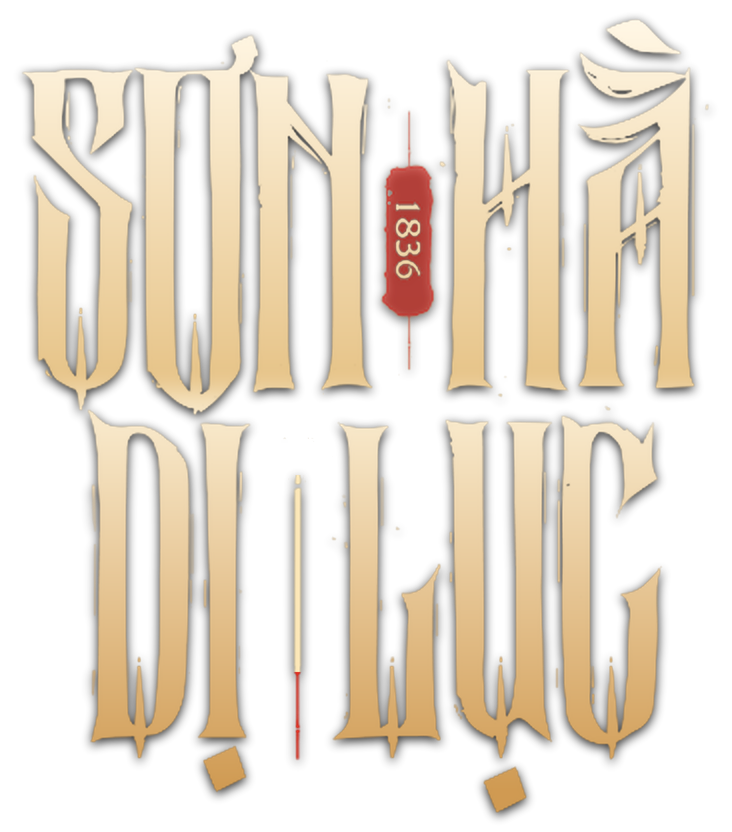
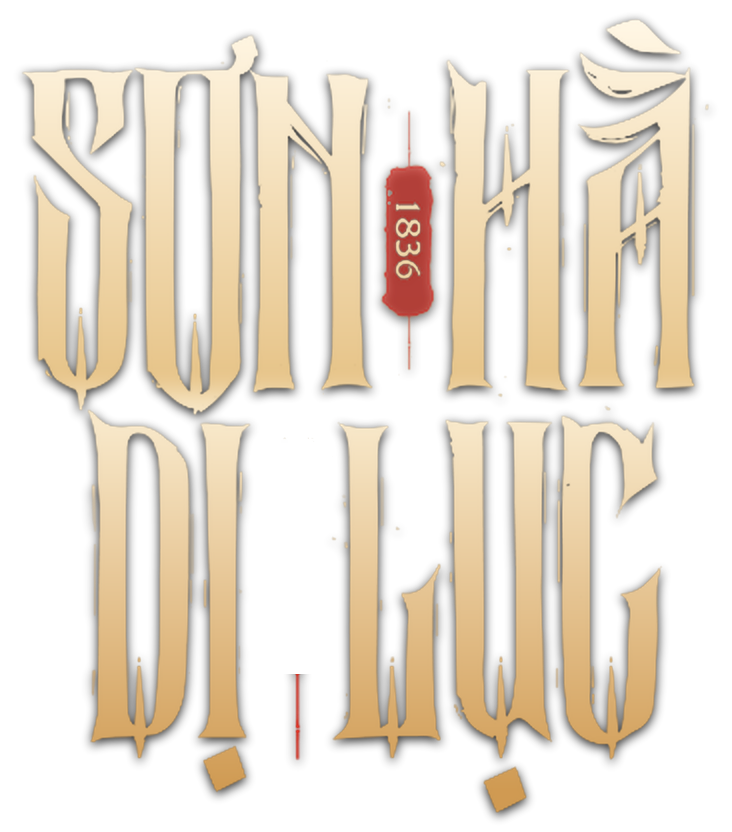
feat(hero): animate incense burning down and dimming over time, reset length & brightness on click

Changed region(s): [[0.3907, 0.5625, 0.4208, 0.8125]]

diff --git a/index.html b/index.html
@@ -7,12 +7,12 @@
   <title>Gosu Cinema | Sơn Hà Dị Lục · 1836 — Linh Dị Cổ Trang Việt Nam</title>
   <link rel="preload" href="assets/uploads/1793703338122-1FTV-VIP-Queen-of-Silence.ttf" as="font" type="font/ttf" crossorigin>
   <link rel="preload" href="assets/uploads/1793704176731-CORMORANTGARAMOND-REGULAR.TTF" as="font" type="font/ttf" crossorigin>
-  <link rel="preload" href="assets/son-ha-di-luc-title.webp?v=14" as="image" type="image/webp">
+  <link rel="preload" href="assets/son-ha-di-luc-title.webp?v=15" as="image" type="image/webp">
   <link rel="preconnect" href="https://fonts.googleapis.com">
   <link rel="preconnect" href="https://fonts.gstatic.com" crossorigin>
   <link href="https://fonts.googleapis.com/css2?family=Be+Vietnam+Pro:ital,wght@0,400;0,500;0,600;0,700;1,400&family=Cormorant+Garamond:ital,wght@0,400;0,500;0,600;0,700;1,400;1,600&family=Cormorant+SC:wght@500;600;700&family=Prata&family=Spectral:ital,wght@0,300;0,400;0,500;0,600;0,700;1,400&display=swap" rel="stylesheet">
-  <link rel="stylesheet" href="style.css?v=13">
-  <link rel="stylesheet" href="visual-editor.css?v=13">
+  <link rel="stylesheet" href="style.css?v=15">
+  <link rel="stylesheet" href="visual-editor.css?v=15">
   <script>
     (function() {
       try {
@@ -111,10 +111,15 @@
         <h1 id="hero-main-title">
           <span class="sr-only">SƠN HÀ</span>
           <div class="hero-title-art-wrap">
-            <div class="hero-title-lit-aura" aria-hidden="true"></div>
-            <img class="hero-title-art" src="assets/son-ha-di-luc-title.webp?v=14" alt="Sơn Hà Dị Lục 1836" width="366" height="416" decoding="async" fetchpriority="high">
+            <div class="hero-title-lit-aura" id="hero-title-lit-aura" aria-hidden="true"></div>
+            <img class="hero-title-art" src="assets/son-ha-di-luc-title.webp?v=15" alt="Sơn Hà Dị Lục 1836" width="366" height="416" decoding="async" fetchpriority="high">
             <svg class="hero-incense-fx-svg" viewBox="0 0 366 416" fill="none" aria-hidden="true">
               <defs>
+                <linearGradient id="inc-stick-grad" gradientUnits="userSpaceOnUse" x1="148.5" y1="237" x2="148.5" y2="338">
+                  <stop offset="0%" stop-color="#fff8e8"/>
+                  <stop offset="60%" stop-color="#f2dab0"/>
+                  <stop offset="100%" stop-color="#d8af6c"/>
+                </linearGradient>
                 <radialGradient id="inc-ember-glow" cx="50%" cy="50%" r="50%">
                   <stop offset="0%" stop-color="#fffbe6" stop-opacity="1"/>
                   <stop offset="22%" stop-color="#ff7a33" stop-opacity="0.88"/>
@@ -138,37 +143,46 @@
                 </linearGradient>
               </defs>
 
-              <!-- Vòng tròn chấm 360 độ sắc nét quanh đầu nhang -->
-              <circle class="incense-dotted-ring" cx="148.5" cy="240.5" r="18.5" stroke="#dfc08a" stroke-width="1.05" stroke-dasharray="1.3 3.6" stroke-linecap="round"/>
+              <!-- Thân nhang màu ngà cháy ngắn dần theo thời gian, bấm thắp hương sẽ dài và sáng lại -->
+              <line id="incense-stick-body" x1="148.5" y1="237.5" x2="148.5" y2="337.5" stroke="url(#inc-stick-grad)" stroke-width="2.55" stroke-linecap="butt"/>
 
-              <!-- Đốm tàn hương khi chưa thắp -->
-              <g class="incense-unlit-invite">
-                <circle class="unlit-tip-dot" cx="148.5" cy="237.5" r="2.3" fill="#e85838"/>
-              </g>
+              <!-- Cụm đầu nhang di chuyển xuống theo mức độ cháy của nén hương -->
+              <g id="incense-burning-head" transform="translate(0, 0)">
+                <!-- Đầu tàn tro nhang -->
+                <line id="incense-ash-tip" x1="148.5" y1="235.8" x2="148.5" y2="238.5" stroke="#857567" stroke-width="2.6" stroke-linecap="round"/>
 
-              <!-- Tầng khói nhang uốn lượn (gradientUnits="userSpaceOnUse" không bao giờ bị cắt viền) -->
-              <g class="incense-smoke-layer">
-                <g class="smoke-unit su-1">
-                  <path d="M 148.5 235 C 136 216, 161 194, 144 168 C 131 146, 159 120, 146 88" stroke="url(#inc-smoke-callig)" stroke-width="5.5" stroke-opacity="0.22" stroke-linecap="round" fill="none"/>
-                  <path d="M 148.5 235 C 139 221, 158 207, 145 191 C 134 176, 157 158, 146 138 C 138 122, 154 104, 147 84" stroke="url(#inc-smoke-callig)" stroke-width="1.65" stroke-linecap="round" fill="none"/>
-                  <circle cx="144" cy="208" r="1.25" fill="#ffd27d" fill-opacity="0.85"/>
-                </g>
-                <g class="smoke-unit su-2">
-                  <path d="M 148.5 235 C 160 214, 136 190, 153 162 C 165 138, 138 112, 151 82" stroke="url(#inc-smoke-crimson)" stroke-width="4.6" stroke-opacity="0.2" stroke-linecap="round" fill="none"/>
-                  <path d="M 148.5 235 C 157 220, 138 204, 152 186 C 162 170, 140 152, 151 132 C 159 116, 143 98, 150 80" stroke="url(#inc-smoke-crimson)" stroke-width="1.35" stroke-linecap="round" fill="none"/>
-                  <circle cx="153" cy="192" r="1.1" fill="#ff6b35" fill-opacity="0.85"/>
-                </g>
-                <g class="smoke-unit su-3">
-                  <path d="M 148.5 233 C 142 216, 154 198, 143 178 C 135 162, 151 144, 145 122" stroke="url(#inc-smoke-callig)" stroke-width="1.2" stroke-linecap="round" fill="none"/>
-                  <circle cx="145" cy="172" r="1" fill="#fff0b8" fill-opacity="0.8"/>
-                </g>
-              </g>
+                <!-- Vòng tròn chấm 360 độ sắc nét quanh đầu nhang -->
+                <circle class="incense-dotted-ring" cx="148.5" cy="240.5" r="18.5" stroke="#dfc08a" stroke-width="1.05" stroke-dasharray="1.3 3.6" stroke-linecap="round"/>
 
-              <!-- Quầng lửa đỏ chu sa & đầu nhang cháy sáng tại (148.5, 237.5) -->
-              <g class="incense-halo-layer">
-                <circle class="ember-aura" cx="148.5" cy="237.5" r="26" fill="url(#inc-ember-glow)"/>
-                <circle class="ember-core" cx="148.5" cy="237.5" r="3.3" fill="#ff4d1c"/>
-                <circle class="ember-hot" cx="148.5" cy="237.5" r="1.6" fill="#fffbe0"/>
+                <!-- Đốm tàn hương khi nhang đã tàn / chưa thắp -->
+                <g class="incense-unlit-invite" id="incense-unlit-invite">
+                  <circle class="unlit-tip-dot" cx="148.5" cy="237.5" r="2.3" fill="#e85838"/>
+                </g>
+
+                <!-- Tầng khói nhang uốn lượn (gradientUnits="userSpaceOnUse" không bao giờ bị cắt viền) -->
+                <g class="incense-smoke-layer" id="incense-smoke-layer">
+                  <g class="smoke-unit su-1">
+                    <path d="M 148.5 235 C 136 216, 161 194, 144 168 C 131 146, 159 120, 146 88" stroke="url(#inc-smoke-callig)" stroke-width="5.5" stroke-opacity="0.22" stroke-linecap="round" fill="none"/>
+                    <path d="M 148.5 235 C 139 221, 158 207, 145 191 C 134 176, 157 158, 146 138 C 138 122, 154 104, 147 84" stroke="url(#inc-smoke-callig)" stroke-width="1.65" stroke-linecap="round" fill="none"/>
+                    <circle cx="144" cy="208" r="1.25" fill="#ffd27d" fill-opacity="0.85"/>
+                  </g>
+                  <g class="smoke-unit su-2">
+                    <path d="M 148.5 235 C 160 214, 136 190, 153 162 C 165 138, 138 112, 151 82" stroke="url(#inc-smoke-crimson)" stroke-width="4.6" stroke-opacity="0.2" stroke-linecap="round" fill="none"/>
+                    <path d="M 148.5 235 C 157 220, 138 204, 152 186 C 162 170, 140 152, 151 132 C 159 116, 143 98, 150 80" stroke="url(#inc-smoke-crimson)" stroke-width="1.35" stroke-linecap="round" fill="none"/>
+                    <circle cx="153" cy="192" r="1.1" fill="#ff6b35" fill-opacity="0.85"/>
+                  </g>
+                  <g class="smoke-unit su-3">
+                    <path d="M 148.5 233 C 142 216, 154 198, 143 178 C 135 162, 151 144, 145 122" stroke="url(#inc-smoke-callig)" stroke-width="1.2" stroke-linecap="round" fill="none"/>
+                    <circle cx="145" cy="172" r="1" fill="#fff0b8" fill-opacity="0.8"/>
+                  </g>
+                </g>
+
+                <!-- Quầng lửa đỏ chu sa & đầu nhang cháy sáng tại (148.5, 237.5) -->
+                <g class="incense-halo-layer" id="incense-halo-layer">
+                  <circle class="ember-aura" cx="148.5" cy="237.5" r="26" fill="url(#inc-ember-glow)"/>
+                  <circle class="ember-core" cx="148.5" cy="237.5" r="3.3" fill="#ff4d1c"/>
+                  <circle class="ember-hot" cx="148.5" cy="237.5" r="1.6" fill="#fffbe0"/>
+                </g>
               </g>
             </svg>
             <button type="button" class="hero-incense-ritual" id="hero-incense-btn" aria-pressed="false" aria-label="Bấm vào cây nhang giữa chữ Dị và Lục để thắp hương (+1)" title="Bấm vào cây nhang để thắp hương (+1)">
@@ -1298,7 +1312,7 @@
     </div>
   </dialog>
 
-  <script src="app.js?v=12"></script>
-  <script src="visual-editor.js?v=12"></script>
+  <script src="app.js?v=15"></script>
+  <script src="visual-editor.js?v=15"></script>
 </body>
 </html>

diff --git a/app.js b/app.js
@@ -793,6 +793,8 @@ if (closeTrailerBtn && trailerDialog) {
 
 /* ==========================================================================
    CÂY NHANG NGHI LỄ GIỮA "DỊ" VÀ "LỤC" + ĐẾM SỐ NGƯỜI THẮP HƯƠNG (+1)
+   Cơ chế: Hương cháy ngắn dần từ trên xuống (y1: 237.5 -> 329.5) và tối/tàn dần;
+   bấm vào cây nhang hoặc nút đếm sẽ thắp sáng rực và dài lại 100% + cộng thêm 1.
    ========================================================================== */
 const heroIncenseBtn = document.getElementById('hero-incense-btn');
 const heroMainTitle = document.getElementById('hero-main-title');
@@ -802,14 +804,32 @@ const incenseCountValueEl = document.getElementById('incense-count-value');
 const incenseCounterCtaEl = document.getElementById('incense-counter-cta');
 const incensePlusFloatEl = document.getElementById('incense-plus-float');
 
+// Các phần tử SVG phục vụ hiệu ứng cháy ngắn dần & tối dần (tàn hương)
+const stickBodyEl = document.getElementById('incense-stick-body');
+const burningHeadEl = document.getElementById('incense-burning-head');
+const haloLayerEl = document.getElementById('incense-halo-layer');
+const smokeLayerEl = document.getElementById('incense-smoke-layer');
+const unlitInviteEl = document.getElementById('incense-unlit-invite');
+const litAuraEl = document.getElementById('hero-title-lit-aura');
+
 const INCENSE_STORAGE_COUNT_KEY = 'gosu_shdl_incense_count_v1';
 const INCENSE_STORAGE_LIT_KEY = 'gosu_shdl_incense_lit_v1';
 const INCENSE_API_GET = 'https://abacus.jasoncameron.dev/get/gosucinema.web.id/shdl_incense_1836';
 const INCENSE_API_HIT = 'https://abacus.jasoncameron.dev/hit/gosucinema.web.id/shdl_incense_1836';
 
+// Thông số vật lý của cây nhang trong hệ tọa độ SVG (viewBox 0 0 366 416)
+const STICK_TOP_Y = 237.5;       // Đỉnh nhang khi mới thắp (dài 100%)
+const MAX_BURN_DELTA_Y = 92.0;   // Quãng đường cháy ngắn xuống (tới y = 329.5, sát chân nhang đỏ 337.5)
+const BURN_DURATION_MS = 22000;  // 22 giây để cháy hết 1 nén nhang và tàn dần
+const BURN_TICK_MS = 60;         // Cập nhật mượt ~16.6fps kết hợp CSS transition nhẹ
+
 let currentIncenseCount = Math.max(1, parseInt(localStorage.getItem(INCENSE_STORAGE_COUNT_KEY) || '1', 10) || 1);
 let flareTimer = null;
 let floatTimer = null;
+let burnIntervalId = null;
+let burnElapsedMs = 0;
+let lastBurnTickTime = 0;
+let isHeroOffscreen = false;
 
 function renderIncenseCount(val, animatePop = false) {
   if (!incenseCountValueEl) return;
@@ -821,13 +841,15 @@ function renderIncenseCount(val, animatePop = false) {
   }
 }
 
-function setIncenseLitVisual(lit) {
+function setIncenseLitVisual(lit, isBurnedOut = false) {
   if (heroIncenseBtn) {
     heroIncenseBtn.classList.toggle('is-lit', lit);
     heroIncenseBtn.setAttribute('aria-pressed', String(lit));
     const hintEl = heroIncenseBtn.querySelector('.incense-hint');
     if (hintEl) {
-      hintEl.textContent = lit ? 'THẮP THÊM (+1)' : 'BẤM THẮP HƯƠNG (+1)';
+      hintEl.textContent = lit
+        ? 'THẮP LẠI NÉN MỚI (+1)'
+        : (isBurnedOut ? 'HƯƠNG ĐÃ TÀN · BẤM THẮP (+1)' : 'BẤM THẮP HƯƠNG (+1)');
     }
   }
   if (heroMainTitle) {
@@ -837,15 +859,75 @@ function setIncenseLitVisual(lit) {
     heroIncenseCounterBar.classList.toggle('is-lit', lit);
   }
   if (incenseCounterCtaEl) {
-    incenseCounterCtaEl.textContent = lit ? '🔥 THẮP THÊM (+1)' : '✦ BẤM THẮP HƯƠNG (+1)';
+    incenseCounterCtaEl.textContent = lit
+      ? '🔥 THẮP THÊM / LÀM SÁNG LẠI (+1)'
+      : (isBurnedOut ? '✦ HƯƠNG ĐÃ TÀN · BẤM THẮP LẠI (+1)' : '✦ BẤM THẮP HƯƠNG (+1)');
   }
 }
 
-// Khởi tạo trạng thái ban đầu ngay lập tức (0ms delay)
-renderIncenseCount(currentIncenseCount, false);
-if (localStorage.getItem(INCENSE_STORAGE_LIT_KEY) === '1') {
-  setIncenseLitVisual(true);
+function applyIncenseBurnProgress(progress) {
+  const clamped = Math.max(0, Math.min(1, progress));
+  const deltaY = clamped * MAX_BURN_DELTA_Y;
+
+  // 1. Thu ngắn thân nhang từ đỉnh (237.5) xuống chân nhang (329.5)
+  if (stickBodyEl) {
+    stickBodyEl.setAttribute('y1', (STICK_TOP_Y + deltaY).toFixed(2));
+  }
+  // 2. Hạ thấp đầu tàn lửa, vòng tròn chấm và làn khói theo đúng đỉnh nhang đang cháy
+  if (burningHeadEl) {
+    burningHeadEl.setAttribute('transform', 'translate(0, ' + deltaY.toFixed(2) + ')');
+  }
+
+  // 3. Giảm dần độ sáng (tối dần / tàn dần) khi nhang cháy ngắn xuống
+  if (clamped < 1) {
+    const intensity = Math.max(0.06, Math.pow(1 - clamped, 1.35));
+    const smokeIntensity = Math.max(0.04, Math.pow(1 - clamped, 1.55));
+    if (haloLayerEl) haloLayerEl.style.opacity = intensity.toFixed(3);
+    if (smokeLayerEl) smokeLayerEl.style.opacity = smokeIntensity.toFixed(3);
+    if (litAuraEl) litAuraEl.style.opacity = (intensity * 0.96).toFixed(3);
+    if (unlitInviteEl) unlitInviteEl.style.opacity = ((1 - intensity) * 0.55).toFixed(3);
+  } else {
+    // Nhang đã cháy cạn và tàn hẳn — tắt lửa & khói, chờ người dùng bấm thắp lại
+    if (haloLayerEl) haloLayerEl.style.opacity = '0';
+    if (smokeLayerEl) smokeLayerEl.style.opacity = '0';
+    if (litAuraEl) litAuraEl.style.opacity = '0';
+    if (unlitInviteEl) unlitInviteEl.style.opacity = '0.78';
+    setIncenseLitVisual(false, true);
+  }
 }
+
+function startIncenseBurnCycle() {
+  if (burnIntervalId) {
+    clearInterval(burnIntervalId);
+    burnIntervalId = null;
+  }
+  burnElapsedMs = 0;
+  lastBurnTickTime = performance.now();
+  setIncenseLitVisual(true, false);
+  applyIncenseBurnProgress(0);
+
+  burnIntervalId = setInterval(() => {
+    const now = performance.now();
+    const dt = now - lastBurnTickTime;
+    lastBurnTickTime = now;
+
+    // Chỉ trừ thời gian cháy khi người dùng đang nhìn thấy Frame 1
+    if (isHeroOffscreen || document.hidden) return;
+
+    burnElapsedMs += Math.min(dt, 250);
+    const progress = Math.min(1, burnElapsedMs / BURN_DURATION_MS);
+    applyIncenseBurnProgress(progress);
+
+    if (progress >= 1) {
+      clearInterval(burnIntervalId);
+      burnIntervalId = null;
+    }
+  }, BURN_TICK_MS);
+}
+
+// Khởi tạo số đếm và bắt đầu hiệu ứng hương cháy ngắn dần & tối dần ngay khi mở trang
+renderIncenseCount(currentIncenseCount, false);
+startIncenseBurnCycle();
 
 // Đồng bộ số đếm thực tế trên cloud trong nền (không chặn giao diện)
 fetch(INCENSE_API_GET, { mode: 'cors', cache: 'no-store' })
@@ -862,8 +944,8 @@ fetch(INCENSE_API_GET, { mode: 'cors', cache: 'no-store' })
 function triggerLightIncense(e) {
   if (e) e.stopPropagation();
 
-  // 1. Bật hiệu ứng cháy sáng & khói nhang ngay lập tức
-  setIncenseLitVisual(true);
+  // 1. Phục hồi cây nhang dài lại 100% và sáng rực trở lại, bắt đầu chu kỳ cháy mới
+  startIncenseBurnCycle();
   localStorage.setItem(INCENSE_STORAGE_LIT_KEY, '1');
 
   // 2. Cộng +1 ngay tức thì trên giao diện (Optimistic UI)
@@ -915,7 +997,8 @@ if (heroSectionEl && 'IntersectionObserver' in window) {
   const heroObs = new IntersectionObserver(
     entries => {
       entries.forEach(entry => {
-        heroSectionEl.classList.toggle('is-offscreen', !entry.isIntersecting);
+        isHeroOffscreen = !entry.isIntersecting;
+        heroSectionEl.classList.toggle('is-offscreen', isHeroOffscreen);
       });
     },
     { threshold: 0.05 }

diff --git a/style.css b/style.css
@@ -512,11 +512,11 @@ h1 {
 .hero-title-lit-aura {
   position: absolute;
   inset: -55%;
-  background: radial-gradient(closest-side at 44% 56%, rgba(212, 36, 26, 0.36) 0%, rgba(212, 36, 26, 0.14) 45%, rgba(212, 36, 26, 0) 88%);
+  background: radial-gradient(closest-side at 44% 58%, rgba(212, 36, 26, 0.38) 0%, rgba(212, 36, 26, 0.15) 45%, rgba(212, 36, 26, 0) 88%);
   opacity: 0;
   pointer-events: none;
   z-index: 1;
-  transition: opacity 0.35s ease;
+  transition: opacity 0.18s linear;
 }
 
 h1.incense-lit .hero-title-lit-aura {
@@ -600,10 +600,10 @@ h1.incense-lit .incense-dotted-ring {
   transform: translateX(-50%) translateY(-2px);
 }
 
-/* Trạng thái CHƯA THẮP HƯƠNG */
+/* Trạng thái CHƯA THẮP / TÀN HƯƠNG */
 .incense-unlit-invite {
   opacity: 0.8;
-  transition: opacity 0.3s ease;
+  transition: opacity 0.18s linear;
 }
 
 .unlit-tip-dot {
@@ -611,18 +611,18 @@ h1.incense-lit .incense-dotted-ring {
 }
 
 @keyframes unlit-dot-fade {
-  0%, 100% { opacity: 0.45; }
-  50% { opacity: 1; }
+  0%, 100% { opacity: 0.35; }
+  50% { opacity: 0.95; }
 }
 
-/* Ẩn tầng lửa và khói khi chưa thắp */
+/* Ẩn tầng lửa và khói khi nhang đã tàn hoàn toàn */
 .incense-halo-layer,
 .incense-smoke-layer {
   opacity: 0;
-  transition: opacity 0.3s ease;
+  transition: opacity 0.18s linear;
 }
 
-/* Trạng thái ĐÃ THẮP HƯƠNG (h1.incense-lit) — không dùng transform-box: fill-box để tránh Chrome cắt viền stroke */
+/* Trạng thái ĐANG CHÁY HƯƠNG (h1.incense-lit) — độ sáng giảm dần theo mức cháy trong app.js */
 h1.incense-lit .incense-unlit-invite {
   opacity: 0;
 }
